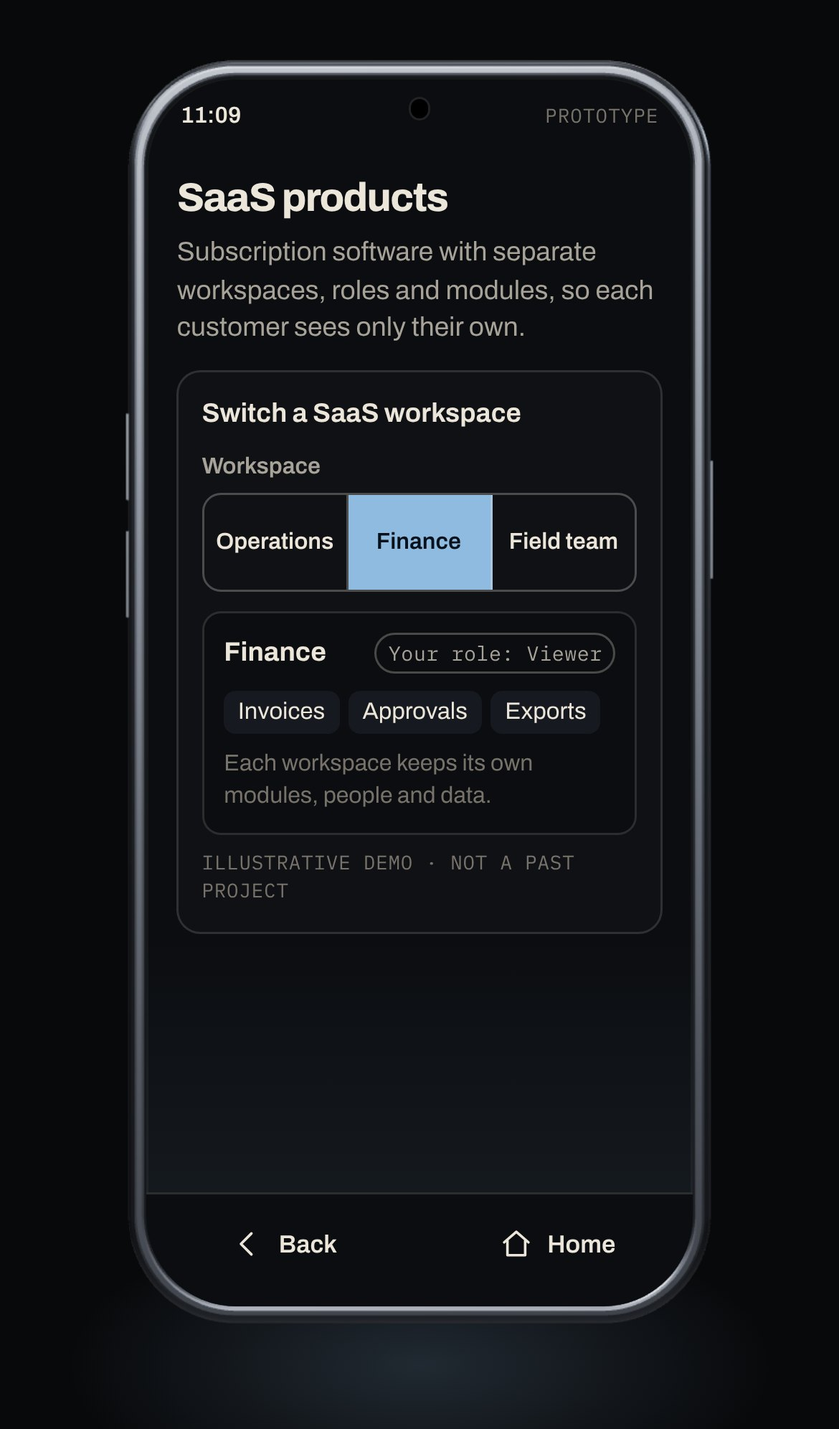
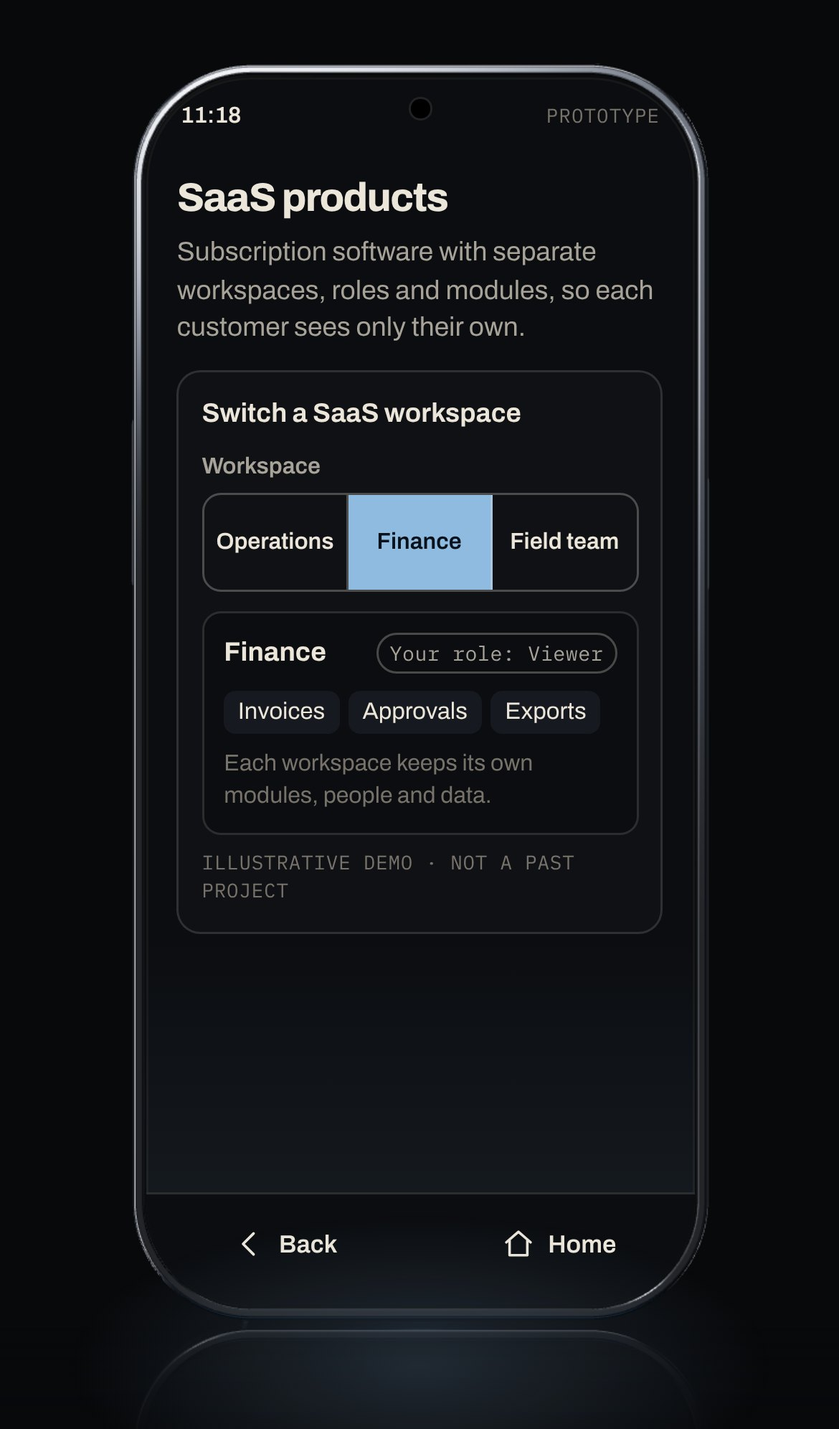
Refine handset: thinner edge-to-edge body, studio lighting, floor reflection
Rebuilds the model with a slimmer polished frame, satin back, machined
camera bezel and coated lens domes, lit by a strip-light studio
environment with a soft spotlight falloff and a mirrored floor.

Claude-Session: https://claude.ai/code/session_01MPbBiKwVrRhYHowGc97uMr

diff --git a/softworkz-prototype/src/phone3d.js b/softworkz-prototype/src/phone3d.js
@@ -1,20 +1,19 @@
-// The handset is modelled here, not filmed: front glass, slim metal frame,
-// matte back and a large round camera assembly. All proportions live in
+// The handset is modelled here, not filmed: edge-to-edge front glass, a slim
+// polished titanium frame, satin glass back and a large round camera assembly. All proportions live in
 // DEVICE so the model can be re-tuned against the reference mockup in one place.
 //
 // The HTML phone screen is the source of truth for layout. The 3D camera is
 // fitted to it every resize, so the live controls sit exactly on the glass and
 // stay ordinary, still DOM while someone is using them.
 import * as THREE from 'three';
-import { RoomEnvironment } from 'three/addons/environments/RoomEnvironment.js';
 
 export const DEVICE = {
-  W: 74, H: 160.5, T: 8.4, // body, mm
-  R: 13.5,                 // body corner radius
-  frame: 1.5,              // visible metal frame width
-  bezel: 2.3,              // body edge to active screen
-  screenR: 11.4,           // screen corner radius
-  cam: { y: 42, r: 20.5 }, // camera ring: distance from top edge, outer radius
+  W: 72.6, H: 158.4, T: 7.2, // body, mm (thin, flat-sided)
+  R: 15,                     // body corner radius
+  frame: 1.05,               // visible metal frame width
+  bezel: 1.75,               // body edge to active screen: near edge-to-edge
+  screenR: 13.2,             // screen corner radius
+  cam: { y: 41, r: 21.5 },   // camera ring: distance from top edge, outer radius
 };
 export const SCREEN_W = DEVICE.W - DEVICE.bezel * 2;
 export const SCREEN_H = DEVICE.H - DEVICE.bezel * 2;
@@ -35,67 +34,110 @@ function rr(w, h, r) {
   return s;
 }
 
+// A dark studio with long strip lights. Reflected in polished metal and glass,
+// it gives the thin highlight lines that make a product shot read as premium.
+function studioEnvironment() {
+  const s = new THREE.Scene();
+  s.background = new THREE.Color(0x010102);
+  const light = (w, h, pos, power, color = 0xffffff) => {
+    const m = new THREE.Mesh(new THREE.PlaneGeometry(w, h), new THREE.MeshBasicMaterial({ color: new THREE.Color(color).multiplyScalar(power), side: THREE.DoubleSide }));
+    m.position.set(...pos); m.lookAt(0, 0, 0); s.add(m);
+  };
+  light(1.1, 12, [-7, 0.5, 3.2], 14);            // tall key strip, front left
+  light(0.35, 12, [7.2, 0, 2.2], 10, 0xcfe2f5);  // hairline cool strip, front right
+  light(9, 2.2, [0, 8, 3], 5);                   // overhead softbox
+  light(1.2, 9, [-6.5, 1, 6.5], 0.1);            // soft band that sweeps across the satin back
+  light(8, 1.8, [0, 5.2, 8], 0.6);               // low front softbox
+  light(7, 7, [0, 0, 9], 0.16);                  // dim panel behind the camera so forward-facing metal still reads
+  light(12, 0.8, [0, -7, 3], 1.1, 0x7fb2e0);     // faint cool bounce from the floor
+  light(0.5, 10, [-5, 0, -6], 6, 0xcfe2f5);      // rim from behind
+  light(0.5, 10, [5.5, 0, -6], 6);
+  return s;
+}
+
 function buildPhone(mats) {
   const { W, H, T, R, frame, bezel, screenR, cam } = DEVICE;
   const g = new THREE.Group();
-  const b = 1.15; // edge rounding of the frame
+  const b = 0.5; // tight chamfer: flat sides, crisp edge
 
-  // Metal frame: a rounded ring, bevelled front and back.
+  // Metal frame: a flat-sided ring with a fine chamfer front and back.
   const outer = rr(W - b * 2, H - b * 2, R - b);
-  const hole = rr(W - frame * 2 - b * 0.4, H - frame * 2 - b * 0.4, R - frame);
-  outer.holes.push(new THREE.Path(hole.getPoints(24).reverse()));
+  const hole = rr(W - frame * 2, H - frame * 2, R - frame);
+  outer.holes.push(new THREE.Path(hole.getPoints(32).reverse()));
   const frameGeo = new THREE.ExtrudeGeometry(outer, {
-    depth: T - b * 2, bevelEnabled: true, bevelThickness: b, bevelSize: b, bevelSegments: 6, curveSegments: 28,
+    depth: T - b * 2, bevelEnabled: true, bevelThickness: b, bevelSize: b, bevelSegments: 5, curveSegments: 40,
   });
   frameGeo.translate(0, 0, -T + b);
   g.add(new THREE.Mesh(frameGeo, mats.metal));
 
-  // Back panel (faces -z).
-  const back = new THREE.Mesh(new THREE.ShapeGeometry(rr(W - frame * 2, H - frame * 2, R - frame), 28), mats.back);
-  back.rotation.y = Math.PI; back.position.z = -T + 0.25;
+  // Satin glass back, very slightly domed at the edge (faces -z).
+  const backGeo = new THREE.ExtrudeGeometry(rr(W - frame * 2 - 0.5, H - frame * 2 - 0.5, R - frame - 0.25), {
+    depth: 0.2, bevelEnabled: true, bevelThickness: 0.35, bevelSize: 0.3, bevelSegments: 4, curveSegments: 40,
+  });
+  const back = new THREE.Mesh(backGeo, mats.back);
+  back.rotation.y = Math.PI; back.position.z = -T + 0.45;
   g.add(back);
 
   // Front glass and the active display area.
-  const glass = new THREE.Mesh(new THREE.ShapeGeometry(rr(W - frame * 1.6, H - frame * 1.6, R - frame * 0.8), 28), mats.glass);
-  glass.position.z = -0.2;
+  const glass = new THREE.Mesh(new THREE.ShapeGeometry(rr(W - frame * 1.7, H - frame * 1.7, R - frame * 0.85), 40), mats.glass);
+  glass.position.z = -0.12;
   g.add(glass);
-  const screen = new THREE.Mesh(new THREE.ShapeGeometry(rr(W - bezel * 2, H - bezel * 2, screenR), 24), mats.screen);
-  screen.position.z = -0.08;
+  const screen = new THREE.Mesh(new THREE.ShapeGeometry(rr(W - bezel * 2, H - bezel * 2, screenR), 32), mats.screen);
+  screen.position.z = -0.05;
   g.add(screen);
 
-  // Side keys.
+  // Side keys: low, long and flush.
   const key = (x, y, len) => {
-    const m = new THREE.Mesh(new THREE.BoxGeometry(0.7, len, 2.4), mats.metal);
-    m.position.set(x, y, -T / 2); g.add(m);
+    const m = new THREE.Mesh(new THREE.CapsuleGeometry(0.75, len, 6, 12), mats.metal);
+    m.scale.set(0.42, 1, 1); m.position.set(x, y, -T / 2); g.add(m);
   };
-  key(W / 2 + 0.1, 22, 15);
-  key(-W / 2 - 0.1, 30, 11); key(-W / 2 - 0.1, 15, 11);
+  key(W / 2 + 0.05, 20, 13);
+  key(-W / 2 - 0.05, 24, 20);
 
-  // Round rear camera assembly.
+  // Antenna breaks in the frame.
+  [[W / 2 - 14, H / 2], [-(W / 2 - 14), -H / 2]].forEach(([x, y]) => {
+    const m = new THREE.Mesh(new THREE.BoxGeometry(0.55, 0.12, T - 1.2), mats.seam);
+    m.position.set(x, y + (y > 0 ? 0.02 : -0.02), -T / 2); g.add(m);
+  });
+
+  // Round rear camera assembly: machined bezel, black glass disc, three deep lenses.
   const camG = new THREE.Group();
   camG.position.set(0, H / 2 - cam.y, -T);
   camG.rotation.y = Math.PI; // local +z now points out of the back
-  const ring = new THREE.Mesh(new THREE.TorusGeometry(cam.r - 0.9, 0.95, 20, 96), mats.ring);
-  ring.position.z = 1.9;
-  const cyl = (r, hgt, mat, z, seg = 64) => {
-    const m = new THREE.Mesh(new THREE.CylinderGeometry(r, r, hgt, seg), mat);
-    m.rotation.x = Math.PI / 2; m.position.z = z; return m;
+  const lathe = (pts, mat) => {
+    const m = new THREE.Mesh(new THREE.LatheGeometry(pts.map(([r, z]) => new THREE.Vector2(r, z)), 128), mat);
+    m.rotation.x = Math.PI / 2; return m;
   };
-  camG.add(ring, cyl(cam.r - 0.9, 1.9, mats.metalDark, 0.95), cyl(cam.r - 1.5, 0.3, mats.glass, 2.0));
-  [[-7.6, 0.4], [5.4, 8.4], [6.0, -7.6]].forEach(([x, y]) => {
+  const disc = (r, z, mat, seg = 96) => { const m = new THREE.Mesh(new THREE.CircleGeometry(r, seg), mat); m.position.z = z; return m; };
+  const r = cam.r;
+  camG.add(
+    lathe([[r, 0], [r, 1.15], [r - 0.35, 1.7], [r - 1.35, 1.95], [r - 1.7, 1.6]], mats.ring),      // polished chamfered bezel
+    disc(r - 1.6, 1.62, mats.glass),                                                           // black glass plate
+    lathe([[r - 3.1, 1.64], [r - 3.0, 1.66], [r - 2.9, 1.64]], mats.lensRing),                    // engraved hairline
+  );
+  [[-8.1, 0.2], [5.6, 8.6], [6.2, -8.0]].forEach(([x, y]) => {
     const lens = new THREE.Group();
-    lens.position.set(x, y, 2.1);
-    lens.add(cyl(6.7, 0.9, mats.metalDark, 0.45), cyl(5.5, 0.5, mats.lens, 0.95), cyl(3.5, 0.12, mats.metalDark, 1.24, 48), cyl(1.7, 0.12, mats.iris, 1.3, 32));
-    const lip = new THREE.Mesh(new THREE.TorusGeometry(6.5, 0.3, 12, 64), mats.lensRing);
-    lip.position.z = 0.95; lens.add(lip);
+    lens.position.set(x, y, 1.63);
+    lens.add(
+      lathe([[7.0, 0], [7.0, 0.55], [6.7, 0.8], [6.0, 0.8], [5.7, 0.5]], mats.lensRing),     // barrel
+      lathe([[5.7, 0.5], [3.4, -0.9], [1.6, -1.3], [0, -1.3]], mats.well),                    // stepped well
+      lathe([[4.6, -0.18], [4.5, -0.1], [4.4, -0.18]], mats.lensRing),
+      disc(1.5, -1.25, mats.iris, 48),
+    );
+    // Coated front element: a shallow dome with a hint of lens-coating colour.
+    const dome = new THREE.Mesh(new THREE.SphereGeometry(13, 48, 12, 0, Math.PI * 2, 0, 0.45), mats.lens);
+    dome.rotation.x = Math.PI / 2; dome.position.z = 0.5 - 13 * Math.cos(0.45) + 0.02;
+    lens.add(dome);
     camG.add(lens);
   });
-  const flash = cyl(1.5, 0.3, mats.flash, 2.2, 24); flash.position.x = -9; flash.position.y = 12.5; camG.add(flash);
+  const flash = disc(1.25, 1.66, mats.flash, 32); flash.position.set(-8.6, 13.2, 1.66);
+  const sensor = disc(0.6, 1.66, mats.well, 24); sensor.position.set(-12.6, 9.4, 1.66);
+  camG.add(flash, sensor);
   g.add(camG);
   return g;
 }
 
-export function createStage({ canvas, stageEl, screenEl, grabEl, planeEls = [], labelEls = [], onRest, reducedMotion }) {
+export function createStage({ canvas, stageEl, screenEl, grabEl, floorEl, planeEls = [], labelEls = [], onRest, reducedMotion }) {
   let renderer;
   try {
     renderer = new THREE.WebGLRenderer({ canvas, antialias: true, alpha: true, powerPreference: 'high-performance' });
@@ -104,36 +146,46 @@ export function createStage({ canvas, stageEl, screenEl, grabEl, planeEls = [], 
     return { ok: false };
   }
   renderer.toneMapping = THREE.ACESFilmicToneMapping;
-  renderer.toneMappingExposure = 1.05;
+  renderer.toneMappingExposure = 1;
   renderer.setClearColor(0x000000, 0);
 
   const scene = new THREE.Scene();
   const pmrem = new THREE.PMREMGenerator(renderer);
-  scene.environment = pmrem.fromScene(new RoomEnvironment(), 0.04).texture;
-  scene.environmentIntensity = 0.42;
+  scene.environment = pmrem.fromScene(studioEnvironment(), 0.02).texture;
+  scene.environmentIntensity = 1;
 
   const camera = new THREE.PerspectiveCamera(FOV, 1, 50, 6000);
   camera.position.set(0, 0, CAM_D);
 
-  const key = new THREE.DirectionalLight(0xffffff, 1.5); key.position.set(-500, 600, 900);
-  const rim = new THREE.DirectionalLight(0xc4d6e6, 1.1); rim.position.set(700, 300, -500);
-  const glow = new THREE.PointLight(0x7fb2e0, 0.5, 0, 0); glow.position.set(0, -120, -40);
-  scene.add(key, rim, glow);
+  const key = new THREE.DirectionalLight(0xffffff, 0.25); key.position.set(-500, 700, 900);
+  // A soft pool of light from upper left: gives the back a falloff instead of a flat fill.
+  const pool = new THREE.SpotLight(0xf2f5fa, 2.4, 0, 0.19, 1, 0);
+  scene.add(pool, pool.target);
+  const glow = new THREE.PointLight(0x7fb2e0, 0.35, 0, 0); glow.position.set(0, -120, -40);
+  scene.add(key, glow);
 
   const css = getComputedStyle(document.documentElement);
   const screenColor = new THREE.Color(css.getPropertyValue('--screen-bg').trim() || '#0b0d10');
+  const P = THREE.MeshPhysicalMaterial;
   const mats = {
-    metal: new THREE.MeshStandardMaterial({ color: 0x5d6168, metalness: 1, roughness: 0.34 }),
-    metalDark: new THREE.MeshStandardMaterial({ color: 0x15171b, metalness: 0.9, roughness: 0.38 }),
-    ring: new THREE.MeshStandardMaterial({ color: 0xaeb3bb, metalness: 1, roughness: 0.2 }),
-    lensRing: new THREE.MeshStandardMaterial({ color: 0x2a2d33, metalness: 1, roughness: 0.3 }),
-    back: new THREE.MeshPhysicalMaterial({ color: 0x0d0f13, metalness: 0.3, roughness: 0.66, sheen: 0.25, sheenRoughness: 0.7, sheenColor: 0x2c3540 }),
-    glass: new THREE.MeshPhysicalMaterial({ color: 0x040506, metalness: 0, roughness: 0.06, clearcoat: 1, clearcoatRoughness: 0.04 }),
-    lens: new THREE.MeshPhysicalMaterial({ color: 0x070b14, metalness: 0.2, roughness: 0.03, clearcoat: 1, clearcoatRoughness: 0.02 }),
-    iris: new THREE.MeshStandardMaterial({ color: 0x0a1630, emissive: 0x0f2a55, emissiveIntensity: 0.35, metalness: 0.5, roughness: 0.15 }),
-    flash: new THREE.MeshStandardMaterial({ color: 0xd9d4c4, roughness: 0.5 }),
+    // Dark polished titanium.
+    metal: new P({ color: 0x7b7f87, metalness: 1, roughness: 0.24, clearcoat: 0.6, clearcoatRoughness: 0.12 }),
+    seam: new THREE.MeshStandardMaterial({ color: 0x1b1d21, metalness: 0.2, roughness: 0.6 }),
+    ring: new P({ color: 0xbfc4cc, side: THREE.DoubleSide, metalness: 1, roughness: 0.1, clearcoat: 1, clearcoatRoughness: 0.05 }),
+    lensRing: new THREE.MeshStandardMaterial({ color: 0x1e2126, side: THREE.DoubleSide, metalness: 1, roughness: 0.24 }),
+    well: new THREE.MeshStandardMaterial({ color: 0x030304, side: THREE.DoubleSide, metalness: 0.6, roughness: 0.5 }),
+    // Satin glass: dark, with a soft sweep of light rather than a flat fill.
+    back: new P({ color: 0x101216, envMapIntensity: 0.3, metalness: 0.3, roughness: 0.5, clearcoat: 0.5, clearcoatRoughness: 0.45 }),
+    glass: new P({ color: 0x020203, metalness: 0, roughness: 0.04, clearcoat: 1, clearcoatRoughness: 0.02 }),
+    lens: new P({ color: 0x04060c, envMapIntensity: 0.28, metalness: 0.1, roughness: 0.02, clearcoat: 1, clearcoatRoughness: 0, iridescence: 1, iridescenceIOR: 1.7, iridescenceThicknessRange: [260, 520], transparent: true, opacity: 0.9 }),
+    iris: new THREE.MeshStandardMaterial({ color: 0x06122a, emissive: 0x0c2552, emissiveIntensity: 0.5, metalness: 0.6, roughness: 0.2 }),
+    flash: new THREE.MeshStandardMaterial({ color: 0xe6dfc8, emissive: 0x3a3626, roughness: 0.35 }),
     screen: new THREE.MeshBasicMaterial({ color: screenColor, toneMapped: false }),
   };
+
+  // Per-material intensity only applies to an explicit envMap, not scene.environment.
+  mats.back.envMap = scene.environment;
+  mats.lens.envMap = scene.environment;
 
   const front = new THREE.Group();
   const frontBody = buildPhone(mats);
@@ -142,6 +194,14 @@ export function createStage({ canvas, stageEl, screenEl, grabEl, planeEls = [], 
   const rear = new THREE.Group();
   rear.add(buildPhone(mats));
   scene.add(rear, front);
+
+  // Polished floor: a mirrored copy of both handsets, faded out by .floor-fade.
+  const mirror = new THREE.Group();
+  mirror.scale.y = -1;
+  const mFront = new THREE.Group(); const mFrontBody = buildPhone(mats); mFront.add(mFrontBody);
+  const mRear = new THREE.Group(); mRear.add(buildPhone(mats));
+  mirror.add(mRear, mFront);
+  scene.add(mirror);
 
   const st = {
     yaw: 0, pitch: 0, yawT: 0, pitchT: 0, flipped: false, dragging: false,
@@ -169,6 +229,10 @@ export function createStage({ canvas, stageEl, screenEl, grabEl, planeEls = [], 
     camera.updateProjectionMatrix();
     stageEl.style.perspective = `${P}px`;
     stageEl.style.perspectiveOrigin = `${cx}px ${cy}px`;
+    if (floorEl) {
+      const top = cy + (DEVICE.H / 2 + 0.6) * st.s * st.k;
+      floorEl.style.top = `${top.toFixed(1)}px`;
+    }
     if (grabEl) {
       const pad = 26, pw = DEVICE.W * st.s * st.k, ph = DEVICE.H * st.s * st.k;
       Object.assign(grabEl.style, { left: `${cx - pw / 2 - pad}px`, top: `${cy - ph / 2 - pad}px`, width: `${pw + pad * 2}px`, height: `${ph + pad * 2}px` });
@@ -195,6 +259,16 @@ export function createStage({ canvas, stageEl, screenEl, grabEl, planeEls = [], 
     rear.position.set((DEVICE.W * 0.96 + e * 500) * s, (-DEVICE.H * 0.05) * s, -150 * s);
     rear.rotation.set(0.02, Math.PI - 0.5, -0.11, 'YXZ');
     glow.position.set(0, -DEVICE.H * 0.35 * s, -30 * s);
+    pool.position.set(-DEVICE.W * 1.1 * s, DEVICE.H * 1.0 * s, DEVICE.H * 2.6 * s);
+    pool.target.position.set(DEVICE.W * 0.45 * s, DEVICE.H * 0.36 * s, 0);
+
+    const floorY = -(DEVICE.H / 2 + 0.6) * s;
+    mirror.visible = e < 0.02;
+    mirror.position.y = 2 * floorY;
+    mFront.position.copy(front.position); mFront.quaternion.copy(front.quaternion); mFront.scale.copy(front.scale);
+    mFrontBody.position.copy(frontBody.position);
+    mRear.visible = rear.visible;
+    mRear.position.copy(rear.position); mRear.quaternion.copy(rear.quaternion); mRear.scale.copy(rear.scale);
 
     const rest = Math.abs(rx) < 0.004 && Math.abs(ry) < 0.004 && e < 0.004 && !st.dragging;
     const rot = `translate3d(${dx.toFixed(2)}px, 0, 0) rotateX(${(-rx).toFixed(5)}rad) rotateY(${ry.toFixed(5)}rad)`;

diff --git a/softworkz-prototype/src/styles.css b/softworkz-prototype/src/styles.css
@@ -10,7 +10,9 @@
   --accent: #8fbbe0;     /* the single cool accent (provisional until sampled from the mockup) */
   --accent-ink: #07111b;
   --screen-bg: #0b0d10;
-  --screen-ar: 0.4452;
+  --screen-ar: 0.4465;
+  --screen-r: 0.0853;
+  --bezel: 0.0113;
   --screen-h: clamp(440px, 78vh, 680px);
   --pad: clamp(20px, 4.4vw, 64px);
   --sans: 'Archivo Variable', 'Helvetica Neue', Arial, sans-serif;
@@ -72,14 +74,16 @@ h2 { font-size: clamp(30px, 3.1vw, 48px); line-height: 1.04; letter-spacing: -0.
 
 /* ── Stage ── */
 .stage { grid-column: 2; grid-row: 1 / span 12; position: sticky; top: 0; height: 100vh; height: 100svh; align-self: start; z-index: 1; overflow: clip; }
-.stage-glow { position: absolute; inset: 0; background:
+.stage-glow { position: absolute; inset: 0; z-index: 2; pointer-events: none; background:
   radial-gradient(ellipse 46% 15% at 42% 96%, rgba(143, 187, 224, 0.2), transparent 70%),
   radial-gradient(ellipse 70% 36% at 46% 100%, rgba(143, 187, 224, 0.07), transparent 72%); }
 .stage-3d { position: absolute; inset: 0; }
 #gl { position: absolute; inset: 0; width: 100%; height: 100%; display: block; }
+.floor-fade { position: absolute; left: 0; right: 0; bottom: 0; z-index: 1; pointer-events: none; background: linear-gradient(to bottom, rgba(8, 9, 11, 0.42), rgba(8, 9, 11, 0.86) 26%, var(--bg) 52%); }
+.no-webgl .floor-fade, .studio .floor-fade { display: none; }
 .grab { position: absolute; z-index: 1; cursor: grab; touch-action: pan-y; }
 .grab.is-grabbing { cursor: grabbing; }
-.device, .plane { position: absolute; left: 39%; top: 50%; height: var(--screen-h); width: calc(var(--screen-h) * var(--screen-ar)); margin: calc(var(--screen-h) / -2) 0 0 calc(var(--screen-h) * var(--screen-ar) / -2); border-radius: calc(var(--screen-h) * 0.0735); backface-visibility: hidden; will-change: transform; }
+.device, .plane { position: absolute; left: 39%; top: 50%; height: var(--screen-h); width: calc(var(--screen-h) * var(--screen-ar)); margin: calc(var(--screen-h) / -2) 0 0 calc(var(--screen-h) * var(--screen-ar) / -2); border-radius: calc(var(--screen-h) * var(--screen-r)); backface-visibility: hidden; will-change: transform; }
 .device { z-index: 3; }
 .device.is-moving { pointer-events: none; }
 .plane { z-index: 2; visibility: hidden; background: var(--panel); border: 1px solid var(--line-2); overflow: hidden; padding: 12% 8% 8%; font-size: calc(var(--screen-h) / 31); color: var(--muted); transition: border-color 0.25s, background 0.25s; }
@@ -122,8 +126,8 @@ h2 { font-size: clamp(30px, 3.1vw, 48px); line-height: 1.04; letter-spacing: -0.
 .ph-title-home { font-size: 1.15em; text-align: center; margin: 1.2em 0 1.5em; color: var(--muted); font-weight: 600; letter-spacing: -0.01em; }
 .ph-line { color: var(--muted); margin-bottom: 0.9em; }
 .appgrid { display: grid; grid-template-columns: 1fr 1fr; gap: 0.75em; }
-.app { width: 100%; aspect-ratio: 1 / 0.94; min-height: 44px; display: flex; flex-direction: column; align-items: center; justify-content: center; gap: 0.55em; background: var(--panel-2); border: 1px solid transparent; border-radius: 1.05em; color: var(--ink); font-weight: 600; font-size: 1em; transition: border-color 0.15s, background 0.15s; }
-.app:hover { border-color: var(--accent); background: #1a2029; }
+.app { width: 100%; aspect-ratio: 1 / 0.94; min-height: 44px; display: flex; flex-direction: column; align-items: center; justify-content: center; gap: 0.55em; background: linear-gradient(180deg, #181c23, #11141a); border: 1px solid rgba(236, 230, 218, 0.07); border-radius: 1.05em; color: var(--ink); font-weight: 600; font-size: 1em; transition: border-color 0.15s, background 0.15s; }
+.app:hover { border-color: var(--accent); background: linear-gradient(180deg, #1c222b, #141921); }
 .app:active { background: #212a36; }
 .app-ic { color: var(--accent); display: inline-flex; }
 .cue { margin-top: 1.6em; text-align: center; color: var(--accent); font-size: 0.96em; }
@@ -204,8 +208,8 @@ select.inp { appearance: none; background-image: linear-gradient(45deg, transpar
 .view .form + .lbl { margin-top: 1em; }
 
 /* Static frame, shown only if WebGL is unavailable */
-.no-webgl .device::before { content: ''; position: absolute; inset: calc(var(--screen-h) * -0.0148); border-radius: calc(var(--screen-h) * 0.0865); background: linear-gradient(135deg, #8b9098, #3a3d43 30%, #6d7279 60%, #2b2d32); box-shadow: 0 0 0 1px #000 inset; z-index: -1; }
-.no-webgl .device::after { content: ''; position: absolute; inset: calc(var(--screen-h) * -0.0055); border-radius: calc(var(--screen-h) * 0.078); background: #040506; z-index: -1; }
+.no-webgl .device::before { content: ''; position: absolute; inset: calc(var(--screen-h) * var(--bezel) * -1); border-radius: calc(var(--screen-h) * (var(--screen-r) + var(--bezel))); background: linear-gradient(135deg, #8b9098, #3a3d43 30%, #6d7279 60%, #2b2d32); box-shadow: 0 0 0 1px #000 inset; z-index: -1; }
+.no-webgl .device::after { content: ''; position: absolute; inset: calc(var(--screen-h) * var(--bezel) * -0.4); border-radius: calc(var(--screen-h) * (var(--screen-r) + var(--bezel) * 0.4)); background: #040506; z-index: -1; }
 .no-webgl .grab, .no-webgl #rotate, .no-webgl #gl, .no-webgl .plane, .no-webgl .plane-label { display: none; }
 
 /* ── Chapter 1: browse services outside the device ── */

diff --git a/softworkz-prototype/index.html b/softworkz-prototype/index.html
@@ -39,6 +39,7 @@
       <div class="stage-glow" aria-hidden="true"></div>
       <div class="stage-3d" id="stage-3d">
         <canvas id="gl" aria-hidden="true"></canvas>
+        <div class="floor-fade" id="floor-fade" aria-hidden="true"></div>
         <div class="grab" id="grab" aria-hidden="true"></div>
         <div class="plane" data-layer="3" aria-hidden="true"></div>
         <div class="plane" data-layer="2" aria-hidden="true"></div>
@@ -117,10 +118,10 @@
     <section class="chapter chapter-media" id="the-device" data-chapter="media">
       <p class="eyebrow mono">The device</p>
       <h2>Modelled, not filmed.</h2>
-      <p class="lede">The handset in this prototype is a real-time 3D model. These studio stills were generated from a plain-background render of that same model, so what you see here is the device you just used.</p>
+      <p class="lede">The handset in this prototype is a real-time 3D model. These stills are rendered locally from that same model, so what you see here is the device you just used.</p>
       <div class="stills">
-        <figure><img src="/media/studio-pair.jpg" alt="Studio still of the two handsets: one facing forward with the app grid, one angled behind it showing the round camera assembly" loading="lazy" width="1920" height="1086"><figcaption class="mono">Studio still · generated from the model render</figcaption></figure>
-        <figure><img src="/media/studio-rear.jpg" alt="Close studio still of the handset’s round rear camera assembly with three lenses" loading="lazy" width="1920" height="1086"><figcaption class="mono">Studio still · camera assembly</figcaption></figure>
+        <figure><img src="/media/still-pair.jpg" alt="The two modelled handsets on a plain dark background: one facing forward with the app grid, one angled behind it showing the round camera assembly" loading="lazy" width="1600" height="1000"><figcaption class="mono">Local render · front and rear</figcaption></figure>
+        <figure><img src="/media/still-rear.jpg" alt="Rear of the modelled handset showing the round camera assembly with three lenses" loading="lazy" width="1600" height="1000"><figcaption class="mono">Local render · camera assembly</figcaption></figure>
       </div>
     </section>
 

diff --git a/softworkz-prototype/src/main.js b/softworkz-prototype/src/main.js
@@ -7,7 +7,7 @@ import { store, latestRecord } from './store.js';
 import { router } from './router.js';
 import { mountView, serviceView, briefView, icon, h, SERVICES } from './views.js';
 import { mountDashboard } from './dashboard.js';
-import { createStage, SCREEN_W, SCREEN_H } from './phone3d.js';
+import { createStage, DEVICE, SCREEN_W, SCREEN_H } from './phone3d.js';
 
 const $ = (s, r = document) => r.querySelector(s);
 const $$ = (s, r = document) => [...r.querySelectorAll(s)];
@@ -20,6 +20,8 @@ const reducedMotion = () => mqReduce.matches;
 const scrollBehavior = () => (reducedMotion() ? 'auto' : 'smooth');
 
 root.style.setProperty('--screen-ar', (SCREEN_W / SCREEN_H).toFixed(4));
+root.style.setProperty('--screen-r', (DEVICE.screenR / SCREEN_H).toFixed(4));
+root.style.setProperty('--bezel', (DEVICE.bezel / SCREEN_H).toFixed(4));
 if (studio) { root.classList.add('studio'); root.dataset.studio = studio; }
 $$('[data-ic]').forEach((el) => { el.innerHTML = icon(el.dataset.ic, 18); });
 
@@ -142,7 +144,7 @@ $('#open-sp').addEventListener('click', () => {
 
 /* ───────────── The 3D handset ───────────── */
 const stage = createStage({
-  canvas: $('#gl'), stageEl: $('#stage-3d'), screenEl: deviceEl, grabEl: $('#grab'),
+  canvas: $('#gl'), stageEl: $('#stage-3d'), screenEl: deviceEl, grabEl: $('#grab'), floorEl: $('#floor-fade'),
   planeEls, labelEls, reducedMotion,
   onRest(rest) {
     // The live screen only takes input while it is still and facing the visitor.

diff --git a/softworkz-prototype/README.md b/softworkz-prototype/README.md
@@ -28,7 +28,7 @@ Everything is bundled locally: Three.js, fonts and media. No CDN, backend or ana
 - `src/store.js` the single client-side state shared by phone, dashboard and layer trace.
 - `src/main.js` routing glue, scroll chapters, fallbacks.
 - `design/hero-board.jpg` the Higgsfield layout board. Its lettering is guidance only; all site copy is HTML.
-- `public/media/` studio stills (Higgsfield, generated from the model render) and the plain local renders they were made from.
+- `public/media/` plain local renders of the current model (`still-*.jpg`, shown on the page) and two earlier Higgsfield studio stills (`studio-*.jpg`, made from the first version of the model, not shown).
 
 ## Checks
 
